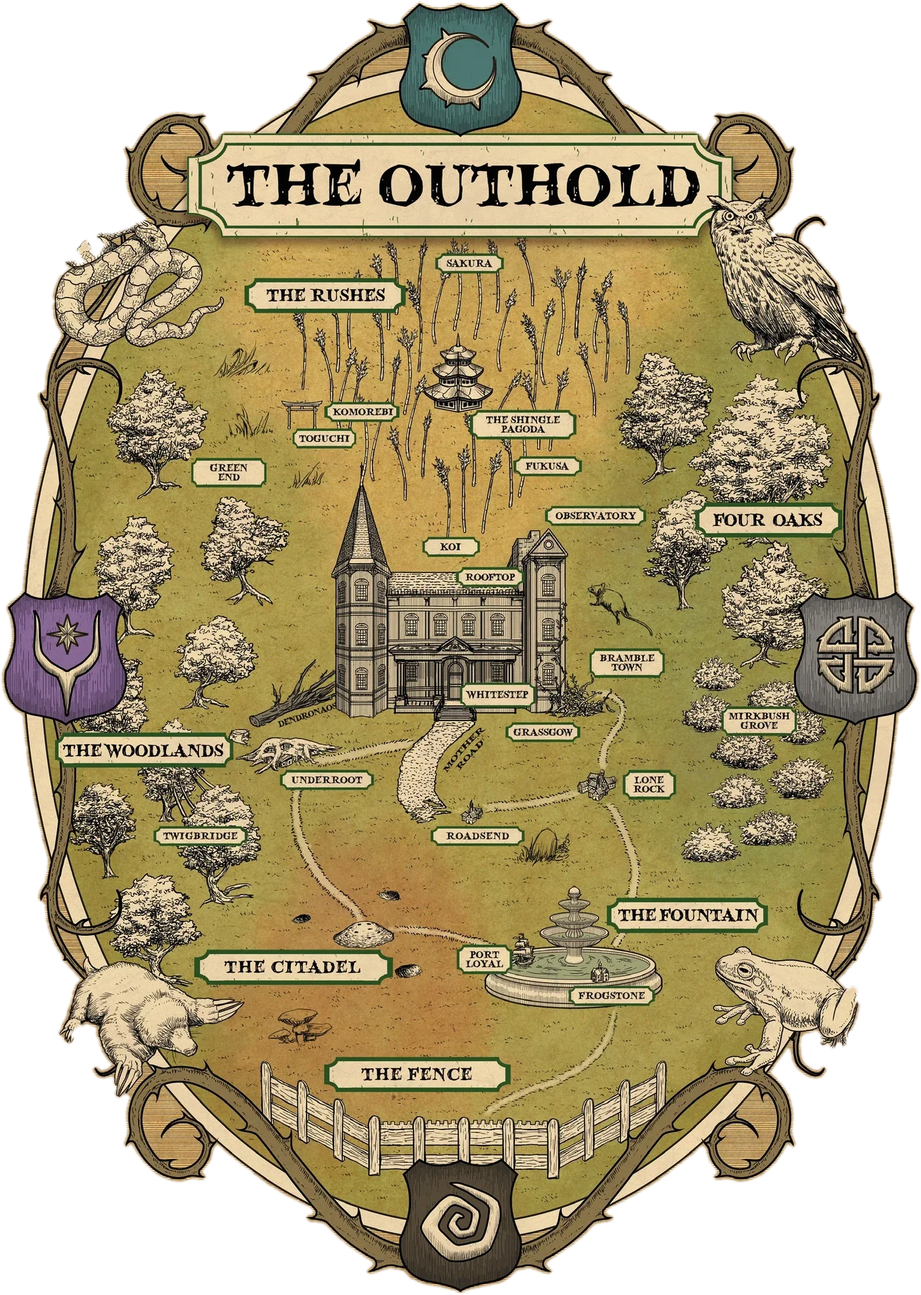
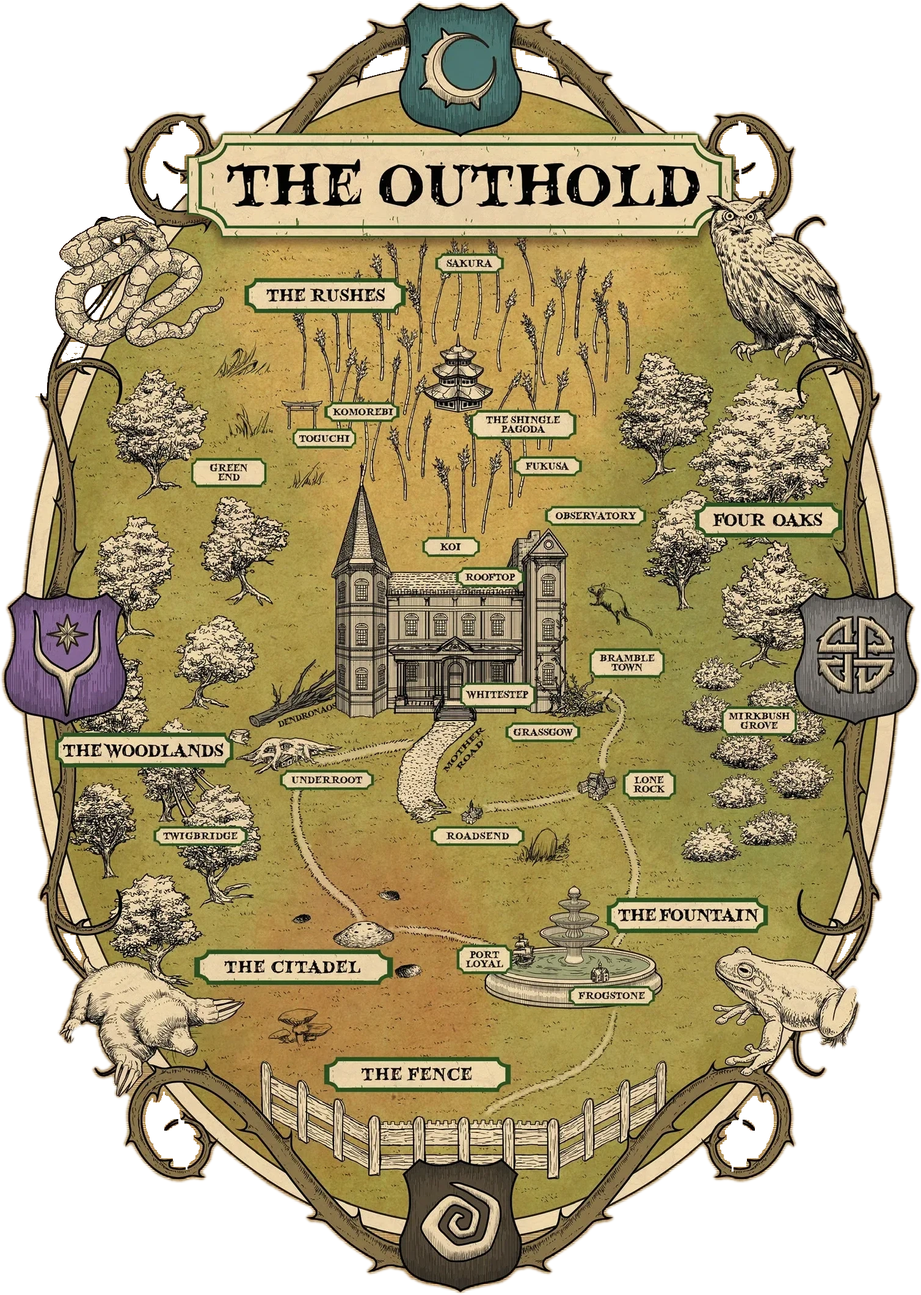
Household: interaktive Gartenkarte mit anklickbaren Gebieten, Karte sauber freigestellt

diff --git a/household/js/data/garten-karte.js b/household/js/data/garten-karte.js
@@ -1,0 +1,50 @@
+/* Garten › Welt › Der Garten › Karte: anklickbare Outhold-Karte links, Gebietstext rechts; Reisekarte als eigene Seite */
+(function(){
+window.HH_INH = window.HH_INH || {};
+var KARTE = "garten-s153-karte-des-gartens-the-outhold-frei";
+var VB = [754, 1060];
+/* id → Knopfname, Fläche auf der Karte (Koordinaten im Raster 754×1060) */
+var REG = [
+ {id: "outhold", n: "The Outhold"},
+ {id: "frontier", n: "The Frontier"},
+ {id: "underground", n: "The Underground"},
+ {id: "frontyard", n: "The Front Yard", p: [[80,470],[300,460],[430,470],[470,520],[720,530],[730,800],[620,990],[380,1000],[200,990],[60,850],[40,650]], l: [150,560]},
+ {id: "brambles", n: "The Brambles", p: [[430,530],[700,535],[705,710],[560,725],[430,660]], l: [575,560]},
+ {id: "woodlands", n: "The Woodlands", p: [[50,440],[230,420],[300,600],[300,680],[220,745],[110,765],[50,690]], l: [215,430]},
+ {id: "barrens", n: "The Barrens", p: [[80,740],[330,730],[360,790],[350,870],[160,880],[95,830]], l: [215,740]},
+ {id: "grasslands", n: "The Grasslands", p: [[370,720],[690,730],[700,880],[600,950],[470,965],[300,965],[215,930],[215,880],[360,880]], l: [530,810]},
+ {id: "backyard", n: "The Backyard", p: [[120,200],[300,185],[450,190],[600,200],[660,330],[650,440],[500,450],[300,440],[130,430],[80,330]], l: [300,300]},
+ {id: "rushes", n: "The Rushes", p: [[195,205],[340,200],[485,215],[510,320],[480,425],[380,440],[310,370],[235,350],[195,300]], l: [350,260]},
+ {id: "fouroaks", n: "Four Oaks", p: [[515,295],[700,300],[710,440],[690,520],[560,515],[520,430]], l: [610,340]}
+];
+function ohneKarte(list){
+  return list.map(function(e){
+    if(e.id !== "outhold") return e;
+    var c = {}; for(var k in e) c[k] = e[k];
+    c.b = e.b.filter(function(x){ return !(x && x.t === "bild" && String(x.s).indexOf("s153-karte") > -1); });
+    return c;
+  });
+}
+function karteSeite(P){
+  var tx = HH_TEXT["garten/welt/garten"] || [], sel = P.sel || "outhold";
+  var flaechen = "", label = "", knoepfe = "", dim = "";
+  REG.forEach(function(r){
+    var on = r.id === sel;
+    if(r.p) flaechen += '<polygon class="gkt-f' + (on ? ' on' : '') + '" points="' + r.p.map(function(q){ return q.join(","); }).join(" ") + '" onclick="go(\'g/welt/garten/karte/' + r.id + '\')"><title>' + esc(r.n) + '</title></polygon>';
+    if(on && r.p) dim = '<path class="gkt-dim" fill-rule="evenodd" d="M0 0H' + VB[0] + 'V' + VB[1] + 'H0Z M' + r.p.map(function(q){ return q.join(" "); }).join("L") + 'Z"/>';
+    if(on && r.l) label = '<div class="gkt-l" style="left:' + (r.l[0] / VB[0] * 100).toFixed(2) + '%;top:' + (r.l[1] / VB[1] * 100).toFixed(2) + '%">' + esc(r.n) + '</div>';
+    knoepfe += '<a class="' + (on ? 'on' : '') + '" onclick="go(\'g/welt/garten/karte/' + r.id + '\')">' + esc(r.n) + '</a>';
+  });
+  return '<div class="gkt"><div class="gkt-l-sp"><div class="gkt-map"><img src="' + IMGP(KARTE) + '" alt="Karte des Outhold">' +
+    '<svg style="-webkit-mask-image:url(' + IMGP(KARTE) + ');mask-image:url(' + IMGP(KARTE) + ')" viewBox="0 0 ' + VB[0] + ' ' + VB[1] + '" preserveAspectRatio="none">' + dim + flaechen + '</svg>' + label + '</div>' +
+    '<div class="gkt-kn">' + knoepfe + '</div></div>' +
+    '<div class="gkt-r">' + textSeite(P, ohneKarte(tx), "hh_r1") + '</div></div>';
+}
+karteSeite.solo = true;
+HH_INH["garten/welt/garten/karte"] = karteSeite;
+function reiseSeite(P){
+  return '<div class="sec txt"><h2>Reisekarte' + pgl("hh_r1", 241) + '</h2><figure class="fig voll"><img src="' + IMGP("garten-s241-reisekarte-des-gartens-the-outhold") + '" alt="Reisekarte des Outhold"></figure></div>';
+}
+reiseSeite.solo = true;
+HH_INH["garten/welt/garten/reisekarte"] = reiseSeite;
+})();

diff --git a/household/style.css b/household/style.css
@@ -402,3 +402,25 @@ body.garten .gegner:not(.koloss)>.gk-kopf{align-items:center}
 body.garten .sec.txt:has(>.gegner.zu){margin:0}body.garten .gegner.zu{margin:7px 0}
 body.garten .koloss>.gk-kopf{cursor:pointer;align-items:center;margin-bottom:8px}
 body.garten .koloss.zu .ko-st b{font-size:24px}
+/* Garten › Karte: anklickbare Karte + Gebietstext */
+body.garten .gkt{display:flex;gap:34px;align-items:flex-start;padding:14px 24px 40px}
+body.garten .gkt>.gkt-l-sp{flex:0 0 44%;min-width:0}
+body.garten .gkt>.gkt-r{flex:1 1 0;min-width:0}
+body.garten .gkt-l-sp{position:sticky;top:108px;display:flex;flex-direction:column;align-items:center}
+body.garten .gkt-map{position:relative;line-height:0;max-width:100%}
+body.garten .gkt-map img{display:block;width:auto;max-width:100%;max-height:calc(100vh - 215px);height:auto}
+body.garten .gkt-map svg{position:absolute;inset:0;width:100%;height:100%}
+body.garten .gkt-f{fill:transparent;stroke:transparent;stroke-width:3;stroke-linejoin:round;cursor:pointer;transition:fill .15s,stroke .15s}
+body.garten .gkt-f:hover{fill:rgba(255,238,160,.28);stroke:rgba(255,240,180,.85)}
+body.garten .gkt-f.on{fill:rgba(255,232,140,.30);stroke:#fff0b0;stroke-width:4;filter:drop-shadow(0 0 5px rgba(60,40,0,.55));pointer-events:none}
+body.garten .gkt-l{position:absolute;transform:translate(-50%,-125%);background:#fbf4e0;color:#2c4a22;font:400 17px/1 Fell,serif;letter-spacing:.05em;font-variant:small-caps;padding:7px 14px;border:1.5px solid #c9a66b;border-radius:3px;white-space:nowrap;box-shadow:0 2px 6px rgba(0,0,0,.35);pointer-events:none}
+body.garten .gkt-l::after{content:"";position:absolute;left:50%;bottom:-7px;width:11px;height:11px;background:#fbf4e0;border-right:1.5px solid #c9a66b;border-bottom:1.5px solid #c9a66b;transform:translateX(-50%) rotate(45deg)}
+body.garten .gkt-kn{display:flex;flex-wrap:wrap;gap:7px 8px;justify-content:center;margin-top:14px}
+body.garten .gkt-kn a{cursor:pointer;font:400 15px/1 Fell,serif;font-variant:small-caps;letter-spacing:.04em;color:#43503a;background:#f7f1e0;border:1px solid #d6cbaa;border-radius:3px;padding:7px 11px;box-shadow:0 1px 2px rgba(0,0,0,.12)}
+body.garten .gkt-kn a:hover{background:#efe6c8}
+body.garten .gkt-kn a.on{background:#3f6a34;border-color:#3f6a34;color:#f3edcf}
+body.garten .gkt-r .txt{max-width:none;margin:0}
+@media(max-width:900px){body.garten .gkt{display:block;padding:8px 14px 30px}body.garten .gkt-l-sp{position:static;margin-bottom:16px}body.garten .gkt-map img{max-height:none}}
+body.garten .gkt-dim{fill:rgba(28,34,14,.42);pointer-events:none}
+body.garten .gkt-f.on{fill:rgba(255,236,150,.12);stroke-width:5}
+body.garten .gkt-map svg{-webkit-mask-size:100% 100%;mask-size:100% 100%;-webkit-mask-repeat:no-repeat;mask-repeat:no-repeat}

diff --git a/sw.js b/sw.js
@@ -1,6 +1,6 @@
 // Offline-Cache. Bei jeder Änderung an index.html die Version erhöhen,
 // damit installierte Apps die neue Fassung laden.
-const VERSION = "v1008sq";
+const VERSION = "v1009sq";
 const CACHE = "erzaehler-tafel-" + VERSION;
 const FILES = [
   "./",
@@ -1476,6 +1476,7 @@ const FILES = [
   "household/js/data/garten-gegner-a.js",
   "household/js/data/garten-gegner-b.js",
   "household/js/data/garten-colossi.js",
+  "household/js/data/garten-karte.js",
   "household/img/fp/full/fp-epilog-gruppe1.webp",
   "household/img/fp/thumb/fp-epilog-gruppe1.webp",
   "household/img/fp/full/fp-epilog-gruppe2.webp",

diff --git a/household/js/app.js b/household/js/app.js
@@ -64,6 +64,7 @@ function viewSeite(P){
       return a + '<div class="subs">' + x[2].map(function(id){ var e = tx.filter(function(t){ return t.id === id; })[0]; return e ? '<a onclick="zuAbschnitt(\'' + id + '\')">' + esc(e.t) + '</a>' : ''; }).join("") + '</div>';
     }).join("");
   }
+  if(fn && fn.solo) side = "";
   if(fn) body = fn(P);
   else {
     var cur = (u.seiten || []).filter(function(x){ return x[0] === P.sel; })[0];

diff --git a/household/index.html b/household/index.html
@@ -144,6 +144,7 @@
 <script src="js/data/garten-gegner-a.js"></script>
 <script src="js/data/garten-gegner-b.js"></script>
 <script src="js/data/garten-colossi.js"></script>
+<script src="js/data/garten-karte.js"></script>
 <script src="../shared/galerie.js"></script>
 <script src="js/data/galerie-grundbuch.js"></script>
 <script src="js/data/galerie-guide.js"></script>

diff --git a/plan/HOUSEHOLD_PLAN.md b/plan/HOUSEHOLD_PLAN.md
@@ -195,3 +195,4 @@ Nur echte Eigenbegriffe bleiben englisch: Namen von Folk, Nationen, Orten, Perso
 - Etappe 9 (Garten › Spielleitung › Gegner, S.277–297): erledigt (garten-gegner-a/b.js; Gefahrenstufen von Gottesanbeterin, Windungen, Schlange, Eichhörnchen, Zerzaustes Eichhörnchen, Teufelsblumen- und Majestätische Gottesanbeterin im Buch nicht sichtbar, geschätzt); weiter mit Colossi ab S.298
 - Etappe 10 (Garten › Spielleitung › Colossi, S.298–311): erledigt (garten-colossi.js, Blocktyp koloss)
 - Etappe 11 (S.312–313 Prätendenten der Zarin): erledigt als Eintrag `praetendenten` in garten-saga.js (Saga-Seitenleiste); Gegner-/Colossi-Karten jetzt einklappbar, Name in der Karte
+- Interaktive Gartenkarte (Welt › Der Garten › Karte): garten-karte.js, Gebiete als SVG-Flächen, Outhold-Karte neu freigestellt
